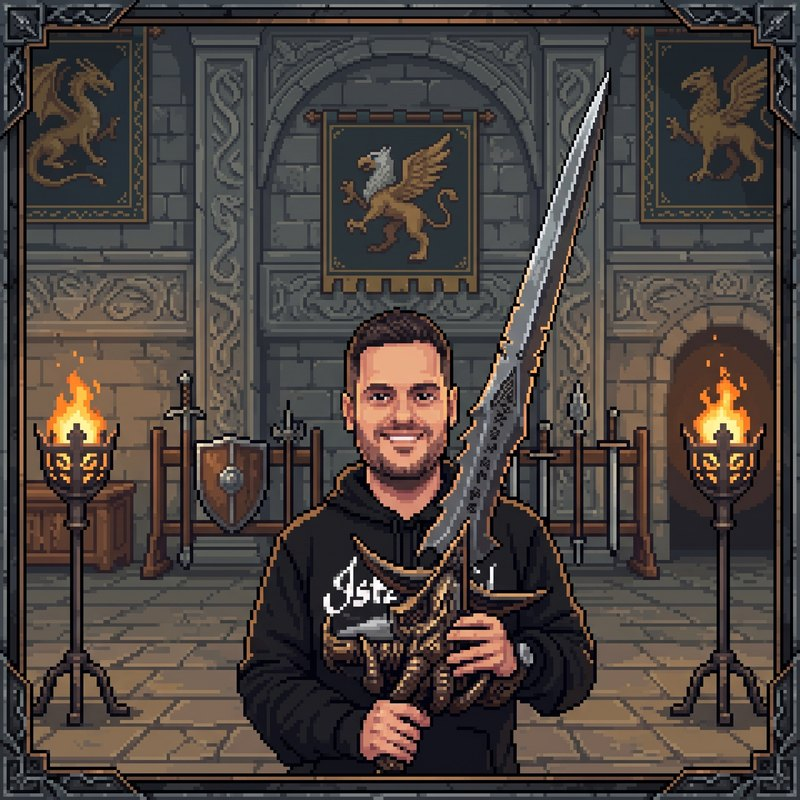
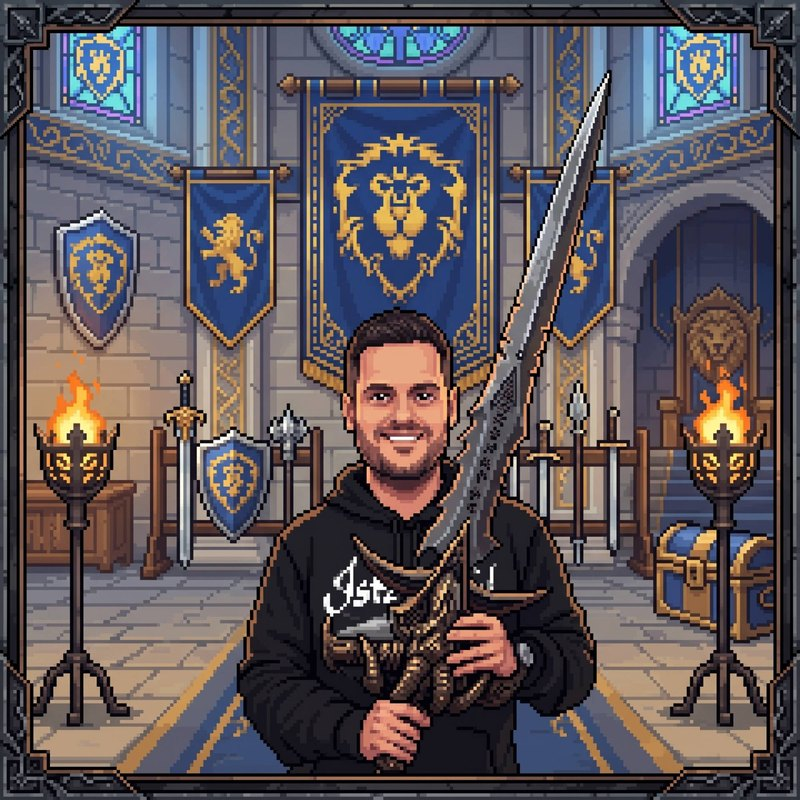
feat: update pixel art profile portrait

diff --git a/index.html b/index.html
@@ -212,7 +212,7 @@
       <div class="container about">
         <div class="about-photo reveal">
           <div class="photo-frame">
-            <img src="assets/img/avatar-pixel.jpg" alt="Retrato en pixel art de David Pérez Salort con una espada en una sala de armas" data-i18n-attr="alt:about.photoAlt" width="800" height="800" loading="lazy" decoding="async">
+            <img src="assets/img/avatar-pixel.jpg" alt="Retrato en pixel art de David Pérez Salort con una espada en el salón de un castillo" data-i18n-attr="alt:about.photoAlt" width="800" height="800" loading="lazy" decoding="async">
           </div>
           <div class="photo-badge">
             <span class="pulse-dot" aria-hidden="true"></span>

diff --git a/js/i18n.js b/js/i18n.js
@@ -38,7 +38,7 @@ export const en = {
   'stats.senior': 'Years as Senior',
   'stats.auto': 'Years in automotive',
 
-  'about.photoAlt': 'Pixel art portrait of David Pérez Salort holding a sword in an armoury',
+  'about.photoAlt': 'Pixel art portrait of David Pérez Salort holding a sword in a castle hall',
   'about.badge': 'Stellantis · Coremain',
   'about.kicker': 'Profile',
   'about.title': 'Native Android by trade. Continuous improvement by conviction.',
